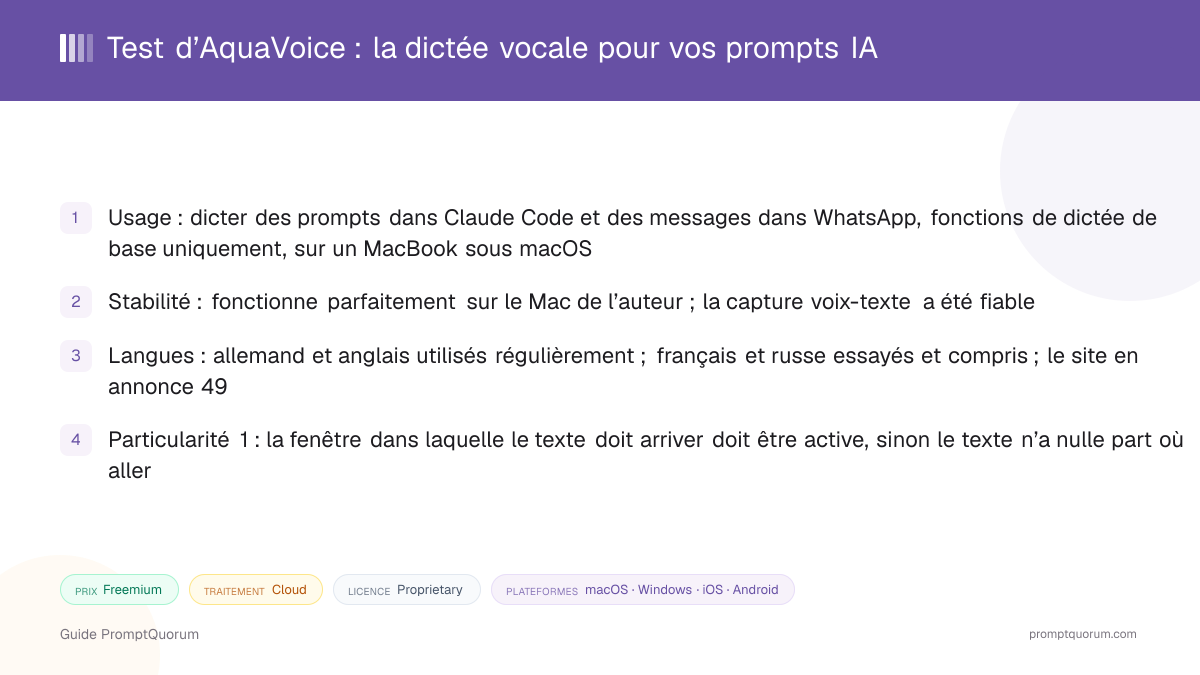
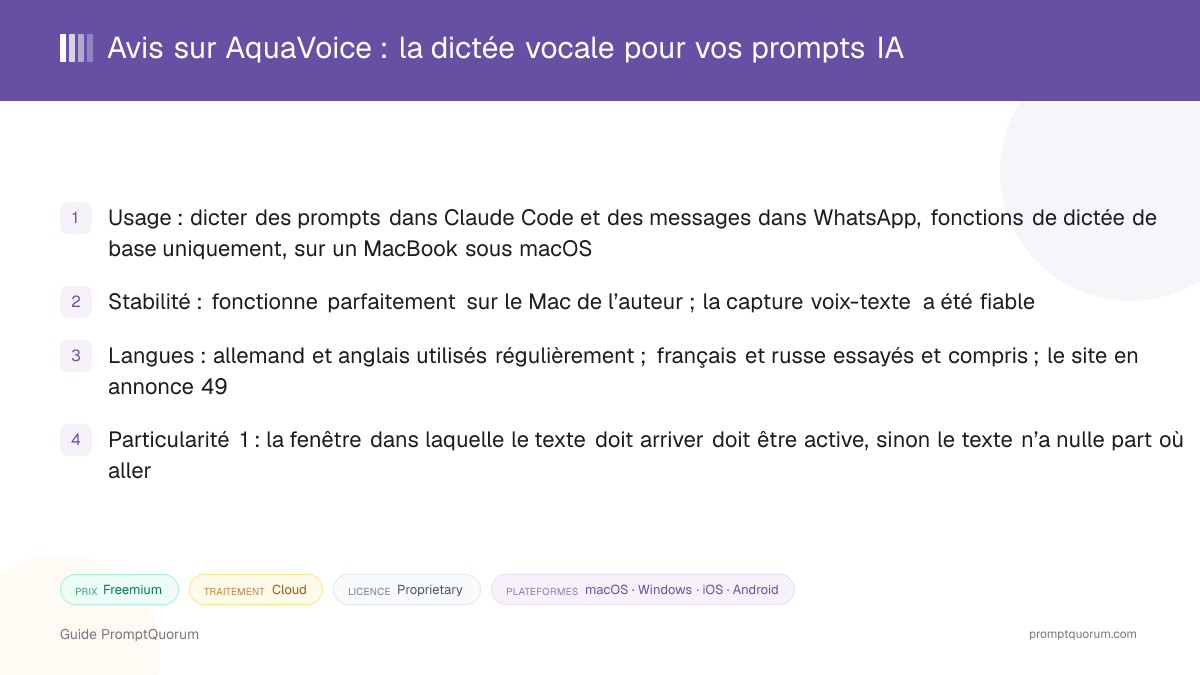
fix(i18n): 'Test' is the wrong word for a review in de/fr
German review badge 'Test' -> 'Rezension', feature badge 'Ausführlicher Test' ->
'Ausführliche Rezension'; AquaVoice review de/fr titles, meta, disclosure and
body no longer call the review a test; de/fr hero images regenerated.

Changed region(s): [[0.0925, 0.0622, 0.7708, 0.0933]]

diff --git a/src/lib/power-local-llm/articles/aquavoice-review.ts b/src/lib/power-local-llm/articles/aquavoice-review.ts
@@ -287,15 +287,15 @@ export const article: Partial<Record<Language, LLMArticle>> = {
     audience: 'Menschen, die viele KI-Prompts und Nachrichten schreiben und sie lieber diktieren als tippen möchten',
     primaryTerm: 'AquaVoice',
     affiliateDisclosure: true,
-    disclosureNote: 'Offenlegung: AquaVoice hat PromptQuorum für diesen Test kostenlosen Zugang zum Produkt gewährt. PromptQuorum erhält von AquaVoice weder eine Zahlung noch eine Provision. Die Meinungen und die hier beschriebene Nutzung sind die des Autors.',
-    title: 'AquaVoice im Test: Sprachdiktat für KI-Prompts',
-    seoTitle: 'AquaVoice im Test: Sprachdiktat für KI',
-    intro: "AquaVoice (Aqua) ist eine Diktier-App unter [aquavoice.com](https://aquavoice.com/), die gesprochene Sprache in Echtzeit in Text umwandelt und in die App einfügt, in der Sie gerade arbeiten. Dieser Test beruht auf der täglichen Nutzung durch den Autor, der damit Prompts in Claude Code und Nachrichten in WhatsApp diktiert. Das zentrale Argument ist einfach: Sprechen ist schneller als Tippen, daher enthält eine diktierte Anfrage mehr Kontext, und mehr Kontext führt zu einer besseren Antwort der KI.",
-    metaDescription: 'AquaVoice im Test: Prompts in Claude Code und WhatsApp diktieren, warum Sprechen der KI mehr Kontext gibt, Mehrsprachigkeit und Grenzen im Alltag.',
+    disclosureNote: 'Offenlegung: AquaVoice hat PromptQuorum für diese Rezension kostenlosen Zugang zum Produkt gewährt. PromptQuorum erhält von AquaVoice weder eine Zahlung noch eine Provision. Die Meinungen und die hier beschriebene Nutzung sind die des Autors.',
+    title: 'AquaVoice-Rezension: Sprachdiktat für KI-Prompts',
+    seoTitle: 'AquaVoice-Rezension: Sprachdiktat für KI',
+    intro: "AquaVoice (Aqua) ist eine Diktier-App unter [aquavoice.com](https://aquavoice.com/), die gesprochene Sprache in Echtzeit in Text umwandelt und in die App einfügt, in der Sie gerade arbeiten. Diese Rezension beruht auf der täglichen Nutzung durch den Autor, der damit Prompts in Claude Code und Nachrichten in WhatsApp diktiert. Das zentrale Argument ist einfach: Sprechen ist schneller als Tippen, daher enthält eine diktierte Anfrage mehr Kontext, und mehr Kontext führt zu einer besseren Antwort der KI.",
+    metaDescription: 'AquaVoice-Rezension: Prompts in Claude Code und WhatsApp diktieren, warum Sprechen der KI mehr Kontext gibt, Mehrsprachigkeit und Grenzen im Alltag.',
     readTime: '7 Min. Lesezeit',
     targetKeywords: [
-      'aquavoice test',
-      'aqua voice test',
+      'aquavoice rezension',
+      'aqua voice rezension',
       'sprachdiktat für ki-prompts',
       'prompts diktieren claude code',
       'spracherkennung für ki-kontext',
@@ -344,13 +344,13 @@ export const article: Partial<Record<Language, LLMArticle>> = {
         items: [
           'Kernidee: Sprechen ist schneller als Tippen und hilft, die eigene Sichtweise besser auszudrücken; so enthält jede KI-Anfrage mehr Kontext und führt zu einem besseren Ergebnis',
           'Nutzung durch den Autor: grundlegendes Diktieren in Claude Code, WhatsApp und andere KI-Tools auf einem MacBook; funktioniert einwandfrei, die Spracherfassung ist zuverlässig',
-          'Sprachen: Deutsch, Englisch, Französisch und Russisch wurden in den Tests des Autors alle verstanden',
+          'Sprachen: Deutsch, Englisch, Französisch und Russisch wurden im eigenen Gebrauch des Autors alle verstanden',
           'Grenzen: Das Zielfenster muss aktiv sein; gelegentliches Abdriften in den Übersetzungsmodus, das durch eine feste Spracheinstellung verringert wird',
           'Datenschutz: Audio und Text werden an die Server von AquaVoice gesendet; wo sie gehostet werden, ist nicht veröffentlicht und EU-Hosting wird nicht genannt, daher vertrauliche Nutzung zuerst individuell prüfen',
           'Preise in US-Dollar: Free (1.000 Wörter), Pro $8 pro Monat bei jährlicher Abrechnung ($10 monatlich), Max $24 pro Monat bei jährlicher Abrechnung ($30 monatlich)',
         ],
         callouts: [
-          { type: 'note', text: 'AquaVoice hat PromptQuorum für diesen Test kostenlosen Zugang gewährt und zahlt darüber hinaus nichts. Wenn Sie eine vollständig lokale Spracherkennung bevorzugen, lesen Sie den [MacWhisper-Test](/power-local-llm/macwhisper-review).' },
+          { type: 'note', text: 'AquaVoice hat PromptQuorum für diese Rezension kostenlosen Zugang gewährt und zahlt darüber hinaus nichts. Wenn Sie eine vollständig lokale Spracherkennung bevorzugen, lesen Sie den [MacWhisper-Rezension](/power-local-llm/macwhisper-review).' },
         ],
       },
       overview: {
@@ -364,7 +364,7 @@ export const article: Partial<Record<Language, LLMArticle>> = {
           'Stufen: Free (1.000 Wörter), Pro (unbegrenzte Wörter, Custom Instructions), Max (zusätzlich Realtime Mode und Sprachbefehle), Business (Team-Tarife)',
           'Datenschutz: Das Diktat wird an die Server von AquaVoice gesendet; ein optionaler Privacy Mode begrenzt die Speicherung von Transkripten, und der Hosting-Standort ist nicht veröffentlicht',
         ],
-        note: 'Funktionsliste von [aquavoice.com](https://aquavoice.com/) am 2026-10-03 übernommen. Der Autor hat nur die grundlegende Diktierfunktion genutzt; Realtime Mode, Sprachbefehle und Custom Instructions wurden für diesen Test nicht ausprobiert.',
+        note: 'Funktionsliste von [aquavoice.com](https://aquavoice.com/) am 2026-10-03 übernommen. Der Autor hat nur die grundlegende Diktierfunktion genutzt; Realtime Mode, Sprachbefehle und Custom Instructions wurden für diese Rezension nicht ausprobiert.',
       },
       whyDictation: {
         id: 'why-dictation-gives-ai-more-context',
@@ -388,7 +388,7 @@ export const article: Partial<Record<Language, LLMArticle>> = {
             list: [
               'Stabilität: keine Probleme in der täglichen Nutzung des Autors auf dem MacBook; das Tool läuft völlig stabil',
               'Erfassung: Das Übernehmen des gesprochenen Textes funktioniert einwandfrei',
-              'Sprachen: Deutsch und Englisch ohne Probleme; Französisch wurde im kurzen Test verstanden; Russisch ebenfalls',
+              'Sprachen: Deutsch und Englisch ohne Probleme; Französisch wurde beim kurzen Ausprobieren verstanden; Russisch ebenfalls',
             ],
           },
           {
@@ -421,7 +421,7 @@ export const article: Partial<Record<Language, LLMArticle>> = {
       downloads: {
         id: 'download-aquavoice',
         title: 'AquaVoice herunterladen',
-        content: "**Registrieren Sie sich und laden Sie die App von der offiziellen Website herunter.** Dieser Test verlinkt auf die eigenen Seiten von AquaVoice; vergewissern Sie sich immer, dass Sie sich auf der offiziellen Domain befinden, bevor Sie sich anmelden.",
+        content: "**Registrieren Sie sich und laden Sie die App von der offiziellen Website herunter.** Diese Rezension verlinkt auf die eigenen Seiten von AquaVoice; vergewissern Sie sich immer, dass Sie sich auf der offiziellen Domain befinden, bevor Sie sich anmelden.",
         columns: ['Was', 'Link'],
         rows: [
           { 'Was': 'Offizielle Website', 'Link': '[aquavoice.com](https://aquavoice.com/)' },
@@ -471,7 +471,7 @@ export const article: Partial<Record<Language, LLMArticle>> = {
       alternatives: {
         id: 'alternatives',
         title: 'Alternativen',
-        content: "AquaVoice ist ein Diktier-Tool. MacWhisper ist der nächstliegende Test derselben Kategorie auf dieser Website, hat aber eine andere Aufgabe: lokale Transkription von Dateien und Meetings sowie Diktat auf dem Mac. Die unten genannten Open-Source-Optionen sind Entwickler-Tools.",
+        content: "AquaVoice ist ein Diktier-Tool. MacWhisper ist der nächstliegende Rezension derselben Kategorie auf dieser Website, hat aber eine andere Aufgabe: lokale Transkription von Dateien und Meetings sowie Diktat auf dem Mac. Die unten genannten Open-Source-Optionen sind Entwickler-Tools.",
         columns: ['Tool', 'Hauptaufgabe', 'Wo es läuft', 'Plattformen'],
         rows: [
           { 'Tool': 'AquaVoice', 'Hauptaufgabe': 'Diktat in Echtzeit in jede App', 'Wo es läuft': 'AquaVoice-Server (Standort nicht veröffentlicht)', 'Plattformen': 'macOS, iOS, Android, Windows' },
@@ -511,7 +511,7 @@ export const article: Partial<Record<Language, LLMArticle>> = {
           { q: 'Was kostet AquaVoice?', a: 'Es gibt eine kostenlose Stufe mit 1.000 Wörtern; Pro kostet $8 pro Monat bei jährlicher Abrechnung ($10 monatlich) und Max $24 pro Monat bei jährlicher Abrechnung ($30 monatlich), jeweils in US-Dollar.' },
           { q: 'Werden meine diktierten Daten in die Cloud gesendet, und wo werden sie gehostet?', a: 'Ja, sie werden an die Server von AquaVoice gesendet; der Hosting-Standort ist nicht veröffentlicht und EU-Hosting wird nicht genannt, daher sollte vertrauliche Nutzung zuerst individuell geprüft werden.' },
           { q: 'Kann ich vertrauliche Daten mit AquaVoice diktieren?', a: 'Nicht ohne Weiteres: Prüfen Sie es zuerst individuell, einschließlich der Bedingungen zur Datenverarbeitung, des Hosting-Standorts und der Unterauftragsverarbeiter, und aktivieren Sie den Privacy Mode.' },
-          { q: 'Wurde dieser Test bezahlt?', a: 'AquaVoice hat PromptQuorum kostenlosen Zugang zum Produkt gewährt; PromptQuorum erhält weder eine Zahlung noch eine Provision.' },
+          { q: 'Wurde diese Rezension bezahlt?', a: 'AquaVoice hat PromptQuorum kostenlosen Zugang zum Produkt gewährt; PromptQuorum erhält weder eine Zahlung noch eine Provision.' },
         ],
       },
       sources: {
@@ -526,9 +526,9 @@ export const article: Partial<Record<Language, LLMArticle>> = {
         id: 'related-reading',
         title: 'Weiterführende Artikel',
         items: [
-          '[MacWhisper im Test: lokale Spracherkennung für den Mac](/power-local-llm/macwhisper-review) — vollständig lokale Transkription und Diktat auf dem Mac.',
-          '[Whisper.cpp im Test](/power-local-llm/whisper-cpp-review) — kostenlose, quelloffene Spracherkennung für Entwickler.',
-          '[faster-whisper im Test](/power-local-llm/faster-whisper-review) — eine Python-Bibliothek für Spracherkennung.',
+          '[MacWhisper Review: Lokale Sprache-zu-Text-App für Mac](/power-local-llm/macwhisper-review) — vollständig lokale Transkription und Diktat auf dem Mac.',
+          '[Whisper.cpp-Rezension](/power-local-llm/whisper-cpp-review) — kostenlose, quelloffene Spracherkennung für Entwickler.',
+          '[faster-whisper-Rezension](/power-local-llm/faster-whisper-review) — eine Python-Bibliothek für Spracherkennung.',
         ],
       },
     },
@@ -544,14 +544,14 @@ export const article: Partial<Record<Language, LLMArticle>> = {
     audience: 'Les personnes qui rédigent beaucoup de prompts et de messages pour l’IA et préfèrent les dicter plutôt que les taper',
     primaryTerm: 'AquaVoice',
     affiliateDisclosure: true,
-    disclosureNote: 'Transparence : AquaVoice a donné à PromptQuorum un accès gratuit au produit pour ce test. PromptQuorum ne reçoit ni paiement ni commission de la part d’AquaVoice. Les opinions et l’usage décrits ici sont ceux de l’auteur.',
-    title: 'Test d’AquaVoice : la dictée vocale pour vos prompts IA',
-    seoTitle: 'Test d’AquaVoice : dictée vocale pour l’IA',
-    intro: "AquaVoice (Aqua) est une application de dictée vocale, disponible sur [aquavoice.com](https://aquavoice.com/), qui transforme la parole en texte en temps réel et l’insère dans l’application dans laquelle vous travaillez. Ce test repose sur l’usage quotidien de l’auteur, qui dicte des prompts dans Claude Code et des messages dans WhatsApp. Son argument central est simple : parler est plus rapide que taper, donc une demande dictée contient plus de contexte, et plus de contexte donne une meilleure réponse de l’IA.",
-    metaDescription: 'Test d’AquaVoice : dicter des prompts dans Claude Code et WhatsApp, pourquoi parler donne plus de contexte à l’IA, résultats multilingues et limites constatées.',
+    disclosureNote: 'Transparence : AquaVoice a donné à PromptQuorum un accès gratuit au produit pour cet avis. PromptQuorum ne reçoit ni paiement ni commission de la part d’AquaVoice. Les opinions et l’usage décrits ici sont ceux de l’auteur.',
+    title: 'Avis sur AquaVoice : la dictée vocale pour vos prompts IA',
+    seoTitle: 'Avis sur AquaVoice : dictée vocale pour l’IA',
+    intro: "AquaVoice (Aqua) est une application de dictée vocale, disponible sur [aquavoice.com](https://aquavoice.com/), qui transforme la parole en texte en temps réel et l’insère dans l’application dans laquelle vous travaillez. Cet avis repose sur l’usage quotidien de l’auteur, qui dicte des prompts dans Claude Code et des messages dans WhatsApp. Son argument central est simple : parler est plus rapide que taper, donc une demande dictée contient plus de contexte, et plus de contexte donne une meilleure réponse de l’IA.",
+    metaDescription: 'Avis sur AquaVoice : dicter des prompts dans Claude Code et WhatsApp, pourquoi parler donne plus de contexte à l’IA, résultats multilingues et limites constatées.',
     readTime: '7 min de lecture',
     targetKeywords: [
-      'test aquavoice',
+      'avis aquavoice',
       'avis aqua voice',
       'dictée vocale pour prompts ia',
       'dicter des prompts claude code',
@@ -601,13 +601,13 @@ export const article: Partial<Record<Language, LLMArticle>> = {
         items: [
           'Idée centrale : parler est plus rapide que taper et aide à mieux exprimer son point de vue, donc chaque demande à l’IA contient plus de contexte et obtient un meilleur résultat',
           'Usage de l’auteur : dictée de base dans Claude Code, WhatsApp et d’autres outils d’IA sur un MacBook ; fonctionne parfaitement, avec une capture voix-texte fiable',
-          'Langues : allemand, anglais, français et russe ont tous été compris lors des tests de l’auteur',
+          'Langues : allemand, anglais, français et russe ont tous été compris lors de l’usage de l’auteur',
           'Limites : la fenêtre cible doit être active ; dérive occasionnelle vers le mode traduction, réduite en verrouillant la langue dans les réglages',
           'Confidentialité : l’audio et le texte sont envoyés aux serveurs d’AquaVoice ; leur lieu d’hébergement n’est pas publié et l’hébergement dans l’UE n’est pas mentionné, donc vérifiez d’abord au cas par cas tout usage confidentiel',
           'Tarifs en dollars américains : Free (1 000 mots), Pro $8 par mois facturé annuellement ($10 en mensuel), Max $24 par mois facturé annuellement ($30 en mensuel)',
         ],
         callouts: [
-          { type: 'note', text: 'AquaVoice a donné à PromptQuorum un accès gratuit pour ce test et ne verse rien d’autre. Si vous préférez une reconnaissance vocale entièrement locale, consultez le [test de MacWhisper](/power-local-llm/macwhisper-review).' },
+          { type: 'note', text: 'AquaVoice a donné à PromptQuorum un accès gratuit pour cet avis et ne verse rien d’autre. Si vous préférez une reconnaissance vocale entièrement locale, consultez le [avis sur MacWhisper](/power-local-llm/macwhisper-review).' },
         ],
       },
       overview: {
@@ -621,7 +621,7 @@ export const article: Partial<Record<Language, LLMArticle>> = {
           'Offres : Free (1 000 mots), Pro (mots illimités, custom instructions), Max (ajoute le Realtime Mode et les commandes vocales), Business (offres d’équipe)',
           'Confidentialité : la dictée est envoyée aux serveurs d’AquaVoice ; un Privacy Mode optionnel limite la conservation des transcriptions, et le lieu d’hébergement n’est pas publié',
         ],
-        note: 'Liste des fonctionnalités reprise de [aquavoice.com](https://aquavoice.com/) le 2026-10-03. L’auteur n’a utilisé que la fonction de dictée de base ; le Realtime Mode, les commandes vocales et les custom instructions n’ont pas été testés pour ce test.',
+        note: 'Liste des fonctionnalités reprise de [aquavoice.com](https://aquavoice.com/) le 2026-10-03. L’auteur n’a utilisé que la fonction de dictée de base ; le Realtime Mode, les commandes vocales et les custom instructions n’ont pas été essayés pour cet avis.',
       },
       whyDictation: {
         id: 'why-dictation-gives-ai-more-context',
@@ -645,7 +645,7 @@ export const article: Partial<Record<Language, LLMArticle>> = {
             list: [
               'Stabilité : aucun problème dans l’usage quotidien de l’auteur sur le MacBook ; l’outil tourne de façon totalement stable',
               'Capture : la reprise du texte dicté fonctionne parfaitement',
-              'Langues : allemand et anglais sans problème ; français compris lors d’un test rapide ; russe également compris',
+              'Langues : allemand et anglais sans problème ; français compris lors d’un essai rapide ; russe également compris',
             ],
           },
           {
@@ -678,7 +678,7 @@ export const article: Partial<Record<Language, LLMArticle>> = {
       downloads: {
         id: 'download-aquavoice',
         title: 'Télécharger AquaVoice',
-        content: "**Inscrivez-vous et téléchargez l’application depuis le site officiel.** Ce test renvoie vers les pages d’AquaVoice elles-mêmes ; vérifiez toujours que vous êtes sur le domaine officiel avant de vous connecter.",
+        content: "**Inscrivez-vous et téléchargez l’application depuis le site officiel.** Cet avis renvoie vers les pages d’AquaVoice elles-mêmes ; vérifiez toujours que vous êtes sur le domaine officiel avant de vous connecter.",
         columns: ['Quoi', 'Lien'],
         rows: [
           { 'Quoi': 'Site officiel', 'Lien': '[aquavoice.com](https://aquavoice.com/)' },
@@ -728,7 +728,7 @@ export const article: Partial<Record<Language, LLMArticle>> = {
       alternatives: {
         id: 'alternatives',
         title: 'Alternatives',
-        content: "AquaVoice est un outil de dictée. MacWhisper est le test de la même catégorie le plus proche sur ce site, mais il vise un autre usage : la transcription locale de fichiers et de réunions, ainsi que la dictée sur Mac. Les options open source ci-dessous sont des outils pour développeurs.",
+        content: "AquaVoice est un outil de dictée. MacWhisper est l’avis de la même catégorie le plus proche sur ce site, mais il vise un autre usage : la transcription locale de fichiers et de réunions, ainsi que la dictée sur Mac. Les options open source ci-dessous sont des outils pour développeurs.",
         columns: ['Outil', 'Fonction principale', 'Où il s’exécute', 'Plateformes'],
         rows: [
           { 'Outil': 'AquaVoice', 'Fonction principale': 'Dictée en temps réel dans n’importe quelle application', 'Où il s’exécute': 'Serveurs d’AquaVoice (lieu non publié)', 'Plateformes': 'macOS, iOS, Android, Windows' },
@@ -768,7 +768,7 @@ export const article: Partial<Record<Language, LLMArticle>> = {
           { q: 'Combien coûte AquaVoice ?', a: 'Il existe une offre gratuite de 1 000 mots ; Pro coûte $8 par mois facturé annuellement ($10 en mensuel) et Max $24 par mois facturé annuellement ($30 en mensuel), en dollars américains.' },
           { q: 'Mes données dictées sont-elles envoyées dans le cloud, et où sont-elles hébergées ?', a: 'Oui, elles sont envoyées aux serveurs d’AquaVoice ; le lieu d’hébergement n’est pas publié et l’hébergement dans l’UE n’est pas mentionné, donc examinez d’abord au cas par cas tout usage confidentiel.' },
           { q: 'Puis-je dicter des données confidentielles avec AquaVoice ?', a: 'Pas par défaut : évaluez-le d’abord au cas par cas, y compris ses conditions de traitement des données, son lieu d’hébergement et ses sous-traitants, et activez le Privacy Mode.' },
-          { q: 'Ce test a-t-il été rémunéré ?', a: 'AquaVoice a donné à PromptQuorum un accès gratuit au produit ; PromptQuorum ne reçoit ni paiement ni commission.' },
+          { q: 'Cet avis a-t-il été rémunéré ?', a: 'AquaVoice a donné à PromptQuorum un accès gratuit au produit ; PromptQuorum ne reçoit ni paiement ni commission.' },
         ],
       },
       sources: {
@@ -783,9 +783,9 @@ export const article: Partial<Record<Language, LLMArticle>> = {
         id: 'related-reading',
         title: 'Lectures complémentaires',
         items: [
-          '[Test de MacWhisper : reconnaissance vocale locale pour Mac](/power-local-llm/macwhisper-review) — transcription et dictée entièrement locales sur Mac.',
-          '[Test de Whisper.cpp](/power-local-llm/whisper-cpp-review) — reconnaissance vocale gratuite et open source pour développeurs.',
-          '[Test de faster-whisper](/power-local-llm/faster-whisper-review) — une bibliothèque Python de reconnaissance vocale.',
+          '[Avis sur MacWhisper : reconnaissance vocale locale pour Mac](/power-local-llm/macwhisper-review) — transcription et dictée entièrement locales sur Mac.',
+          '[Avis sur Whisper.cpp](/power-local-llm/whisper-cpp-review) — reconnaissance vocale gratuite et open source pour développeurs.',
+          '[Avis sur faster-whisper](/power-local-llm/faster-whisper-review) — une bibliothèque Python de reconnaissance vocale.',
         ],
       },
     },

diff --git a/src/components/local-ai-directory/directory-i18n.ts b/src/components/local-ai-directory/directory-i18n.ts
@@ -272,7 +272,7 @@ const DIR_UI = {
   // dedicated review (src/generated/feature-review-index.json) — visually
   // distinct from the plain "Read review" text link and from the "N articles
   // mention this tool" count, both of which stay unchanged.
-  featureArticleBadge: { en: 'Feature Article', de: 'Ausführlicher Test', fr: 'Article dédié', ja: '特集記事', zh: '专题评测', es: 'Artículo destacado', pt: 'Artigo destacado', ar: 'مقال متخصص', ko: '심층 리뷰' },
+  featureArticleBadge: { en: 'Feature Article', de: 'Ausführliche Rezension', fr: 'Article dédié', ja: '特集記事', zh: '专题评测', es: 'Artículo destacado', pt: 'Artigo destacado', ar: 'مقال متخصص', ko: '심층 리뷰' },
   archivedBadge: { en: 'Archived', de: 'Archiviert', fr: 'Archivé', ja: 'アーカイブ済み', zh: '已归档', es: 'Archivado', pt: 'Arquivado', ar: 'مؤرشف', ko: '보관됨' },
   unmaintainedBadge: { en: 'No longer maintained', de: 'Nicht mehr gepflegt', fr: 'Plus maintenu', ja: 'メンテナンス終了', zh: '已停止维护', es: 'Sin mantenimiento', pt: 'Sem manutenção', ar: 'لم يعد مُصانًا', ko: '유지보수 종료' },
   staleListingBadgeWarn: { en: 'Not verified in 6+ months', de: 'Seit über 6 Monaten nicht geprüft', fr: 'Non vérifié depuis plus de 6 mois', ja: '6ヶ月以上未確認', zh: '超过6个月未核实', es: 'Sin verificar desde hace más de 6 meses', pt: 'Não verificado há mais de 6 meses', ar: 'لم يُتحقَّق منه منذ أكثر من 6 أشهر', ko: '6개월 넘게 확인되지 않음' },

diff --git a/src/components/home/home-i18n.ts b/src/components/home/home-i18n.ts
@@ -397,7 +397,7 @@ const HOME_UI = {
   freshSubtitleTemplate: { en: 'Added in the last {n} days', de: 'In den letzten {n} Tagen hinzugefügt', fr: 'Ajouté ces {n} derniers jours', ja: '過去{n}日以内に追加', zh: '过去{n}天内新增', es: 'Añadido en los últimos {n} días', pt: 'Adicionado nos últimos {n} dias', ar: 'أُضيف خلال آخر {n} أيام', ko: '최근 {n}일 이내 추가' },
   freshNew: { en: 'New', de: 'Neu', fr: 'Nouveau', ja: '新着', zh: '新', es: 'Nuevo', pt: 'Novo', ar: 'جديد', ko: '신규' },
   freshUpdated: { en: 'Updated', de: 'Aktualisiert', fr: 'Mis à jour', ja: '更新', zh: '已更新', es: 'Actualizado', pt: 'Atualizado', ar: 'محدَّث', ko: '업데이트됨' },
-  freshKindReview: { en: 'Review', de: 'Test', fr: 'Avis', ja: 'レビュー', zh: '评测', es: 'Reseña', pt: 'Análise', ar: 'مراجعة', ko: '리뷰' },
+  freshKindReview: { en: 'Review', de: 'Rezension', fr: 'Avis', ja: 'レビュー', zh: '评测', es: 'Reseña', pt: 'Análise', ar: 'مراجعة', ko: '리뷰' },
   freshKindApp: { en: 'App', de: 'App', fr: 'Appli', ja: 'アプリ', zh: '应用', es: 'App', pt: 'App', ar: 'تطبيق', ko: '앱' },
   freshKindGuide: { en: 'Guide', de: 'Ratgeber', fr: 'Guide', ja: 'ガイド', zh: '指南', es: 'Guía', pt: 'Guia', ar: 'دليل', ko: '가이드' },
   freshToday: { en: 'Today', de: 'Heute', fr: "Aujourd'hui", ja: '今日', zh: '今天', es: 'Hoy', pt: 'Hoje', ar: 'اليوم', ko: '오늘' },
